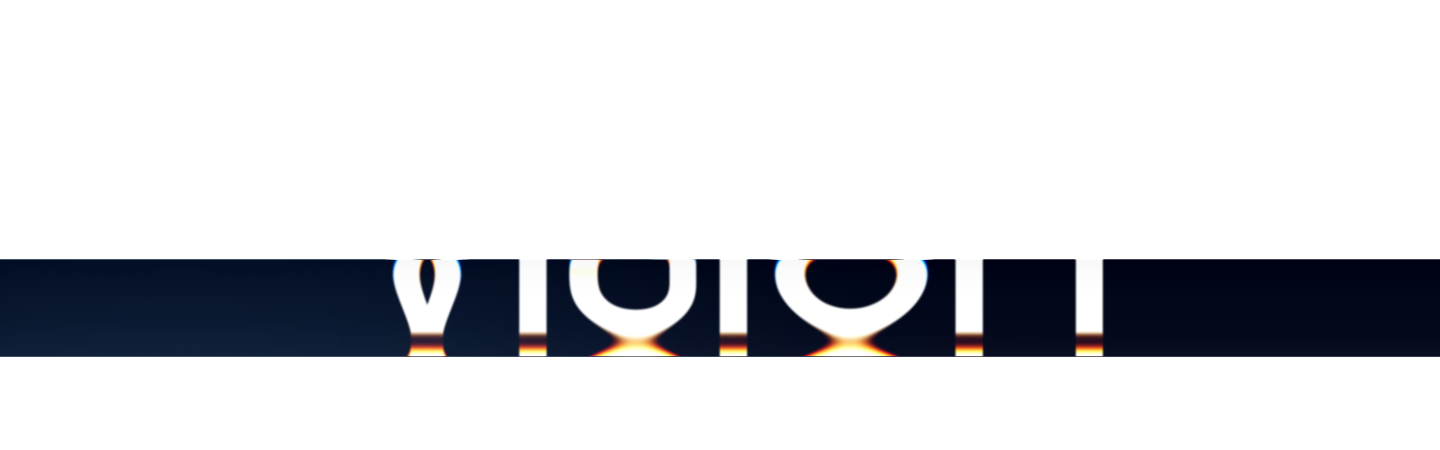
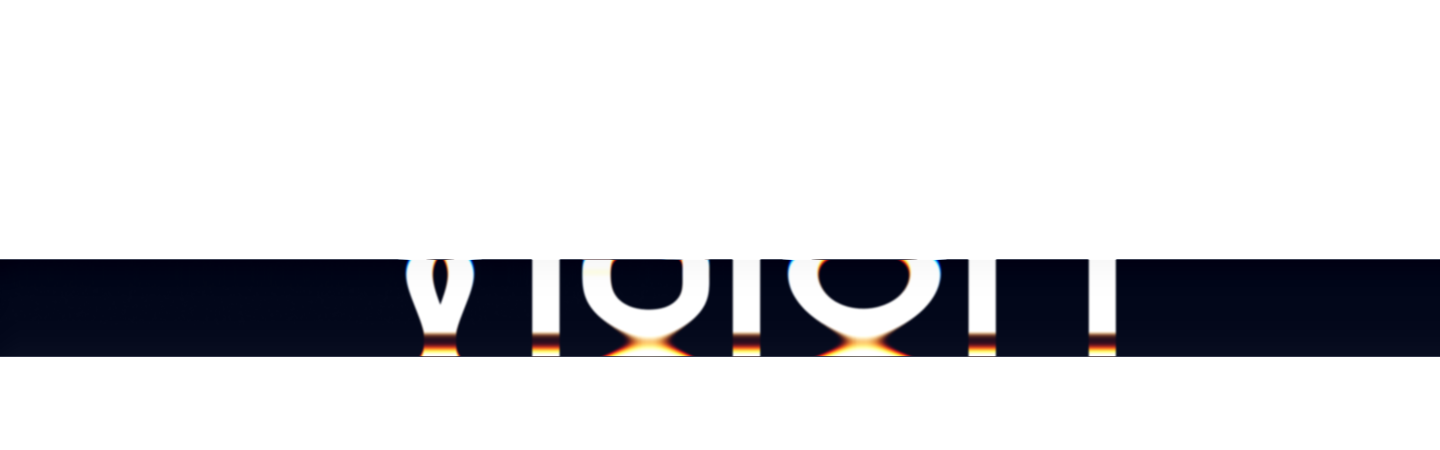
Add glass effect

Changed region(s): [[0.25, 0.56, 0.7812, 0.8089], [0.0, 0.7156, 0.2188, 0.8089]]

diff --git a/src/components/VisionSection.jsx b/src/components/VisionSection.jsx
@@ -1,6 +1,7 @@
 import React from "react";
 import visionImage from "../assets/vision.png"; // update path
-import vision from "../assets/vision01.png";
+import VisionIcon from "../assets/visionH.png";
+
 
 const VisionSection = () => {
   return (
@@ -23,9 +24,10 @@ const VisionSection = () => {
 
       {/* Vision Text */}
       <div className="relative z-10 text-center px-6">
-        <h2 className=" lg:text-[310px] font-light -tracking-[0.4rem] lowercase text-white mt-50">
+        {/* <h2 className=" lg:text-[310px] font-light -tracking-[0.4rem] lowercase text-white mt-50">
           vision
-        </h2>
+        </h2> */}
+        <img className="scale-107" src={VisionIcon} alt="" />
         {/* <p className="text-white text-3xl">Lorem ipsum dolor sit amet consectetur adipisicing elit. At, laborum dolore assumenda fugit voluptates harum eum eaque ipsa deserunt. Quaerat asperiores qui ducimus? Officiis, cumque est officia commodi iste incidunt? Lorem ipsum, dolor sit amet consectetur adipisicing elit. Optio non at iusto vitae corporis veniam et necessitatibus, harum, tenetur sequi earum numquam. Tempora, omnis officiis. Corporis possimus vitae, architecto nulla beatae accusamus vel! Vero totam, dolore aliquid nam quia velit dicta, itaque voluptates maiores rem provident voluptatibus voluptas. Consequatur, corrupti.</p> */}
         
       </div>

diff --git a/src/components/AboutSection.jsx b/src/components/AboutSection.jsx
@@ -7,11 +7,8 @@ import RhythmColor from "../assets/RhythmMundra.jpeg";
 import RhythmBW from "../assets/RhythmMundra.jpeg";
 import DevanshuColor from "../assets/DevanshuRana.jpeg";
 import DevanshuBW from "../assets/DevanshuRana.jpeg";
-import About from "../assets/aboutus.png";
-import AboutIcon from "../assets/test.png";
-import ContactIcon from "../assets/contactVisionmm.png";
-import ProductH from "../assets/productH.png"
-import Pricing from "../assets/pricing.png";
+import AboutIcon from "../assets/aboutH.png";
+
 const AboutSection = () => {
   const teamMembers = [
     { id: 1, name: "Devanshu Rana", role: "Co-Founder", colorImg: DevanshuColor, bwImg: DevanshuBW },
@@ -44,7 +41,7 @@ const AboutSection = () => {
               text-[60px] sm:text-[100px] md:text-[160px] lg:text-[200px] xl:text-[260px] 2xl:text-[300px] -tracking-[0.4rem] -mx-17">
             about us
           </h2> */}
-          <img src={AboutIcon} alt="" />
+          <img className="scale-133" src={AboutIcon} alt="" />
           <p className="text-white text-base sm:text-lg opacity-70">See, let's get to know</p>
           <div className="w-16 sm:w-24 h-1 bg-white mx-auto mt-4 rounded-full" />
         </div>

diff --git a/src/components/ProductSection.jsx b/src/components/ProductSection.jsx
@@ -2,6 +2,7 @@ import React, { useRef, useEffect, useState } from "react";
 import line1 from "../assets/Line 2.png"; // ✅ Update to correct path
 import line2 from "../assets/Line 3.png"; // ✅ Update to correct path
 import ProductImage from "../assets/product.png";
+import ProductIcon from "../assets/productH.png";
 
 const STEPS = [
   {
@@ -61,10 +62,11 @@ const ProductSection = () => {
             />
             <div className="absolute inset-0 bg-[#02071A]/10" />
       {/* Title */}
-      <div className="text-center mb-12">
-        <h1 className="text-[300px] font-light -tracking-[0.60rem] lowercase text-white mb-4 -mt-20">
+      <div className="text-center mb-13 -mt-22 ">
+        {/* <h1 className="text-[300px] font-light -tracking-[0.60rem] lowercase text-white mb-4 -mt-20">
           Product
-        </h1>
+        </h1> */}
+        <img className="scale-103" src={ProductIcon} alt="" />
       </div>
 
       {/* Subtext */}

diff --git a/src/components/ContactSection.jsx b/src/components/ContactSection.jsx
@@ -2,7 +2,7 @@ import React from "react";
 import { Mail, Twitter, Linkedin, Instagram } from "lucide-react";
 import GroupBg from "../assets/about.png";
 import ContactShape from "../assets/contact.png";
-
+import ContactIcon from "../assets/contactH.png";
 const ContactSection = () => {
   return (
     <section
@@ -27,13 +27,14 @@ const ContactSection = () => {
       <div className="relative z-10 container mx-auto max-w-6xl">
         {/* Title */}
         <div className="text-center mb-12 sm:mb-16">
-          <h2
+          {/* <h2
             className="text-white lowercase font-light leading-none 
             text-[60px] sm:text-[100px] md:text-[140px] lg:text-[200px] xl:text-[260px] 2xl:text-[320px]
             -tracking-[0.05em]"
           >
             contact
-          </h2>
+          </h2> */}
+          <img className="scale-133" src={ContactIcon} alt="" />
         </div>
 
         {/* Main Grid */}
